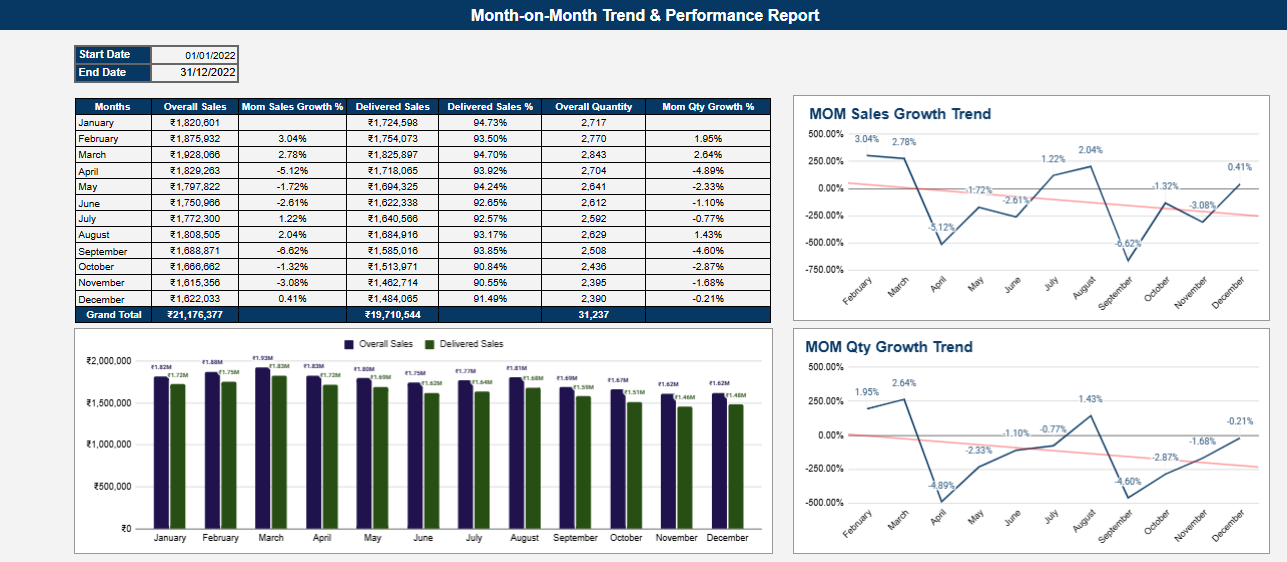
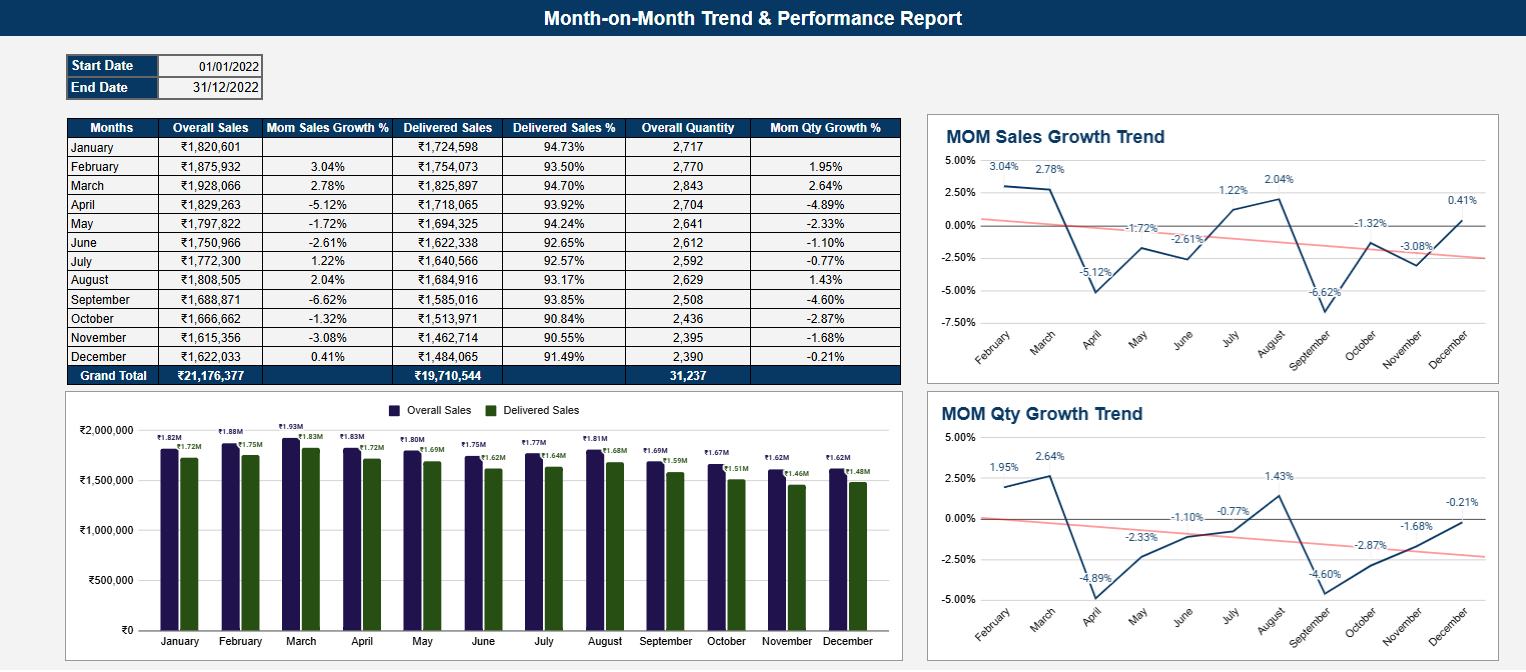
fix: update assets and readme

diff --git a/README.md b/README.md
@@ -58,12 +58,12 @@ reporting period is 1 January 2022 to 31 December 2022.
 
 The source dataset contains **31,047 transaction lines**.
 
-  Measure                Reported value
-  -------------------- ----------------
-  Distinct orders                28,471
-  Distinct customers             28,437
-  Overall sales             ₹21,176,377
-  Delivered sales           ₹19,710,544
+| Measure | Reported value |
+|---|---:|
+| Distinct orders | 28,471 |
+| Distinct customers | 28,437 |
+| Overall sales | ₹21,176,377 |
+| Delivered sales | ₹19,710,544 |
 
 The dataset contains four order statuses: Delivered, Returned,
 Cancelled, and Refunded.
@@ -122,9 +122,9 @@ Suggested repository structure:
 
 ``` text
 E-Commerce-Retail-Data-Analysis/
+├── assets/
 ├── README.md
-├── Management_Report.md
-└── Retail Case Study.pdf
+└── Management_Report.md
 ```
 
 The files above document the project and its requirements. The working
@@ -132,11 +132,14 @@ analysis remains in Google Sheets.
 
 ### Open the Google Sheets workbook
 
-[Google Sheets workbook link](https://docs.google.com/spreadsheets/d/1n6-C8iIL07yZ9GrKuJOxfx9aOxNRSwJGye5WyQzUXwU/edit?usp=sharingE)
+[Google Sheets workbook link](https://docs.google.com/spreadsheets/d/1n6-C8iIL07yZ9GrKuJOxfx9aOxNRSwJGye5WyQzUXwU/edit?usp=sharing)
 
-![alt text](assets/image.png)
-![alt text](assets/image-1.png)
-![alt text](assets/image-2.png)
+### Screenshots
+
+![Month-on-Month Trend Report](assets/image.png)
+![State-Wise Performance Report](assets/image-1.png)  
+![Product-Category Performance Report](assets/image-2.png)
+![State-Wise Quarterly and Monthly Sales Snippet](assets/image-3.png)
 
 ## Purpose
 
